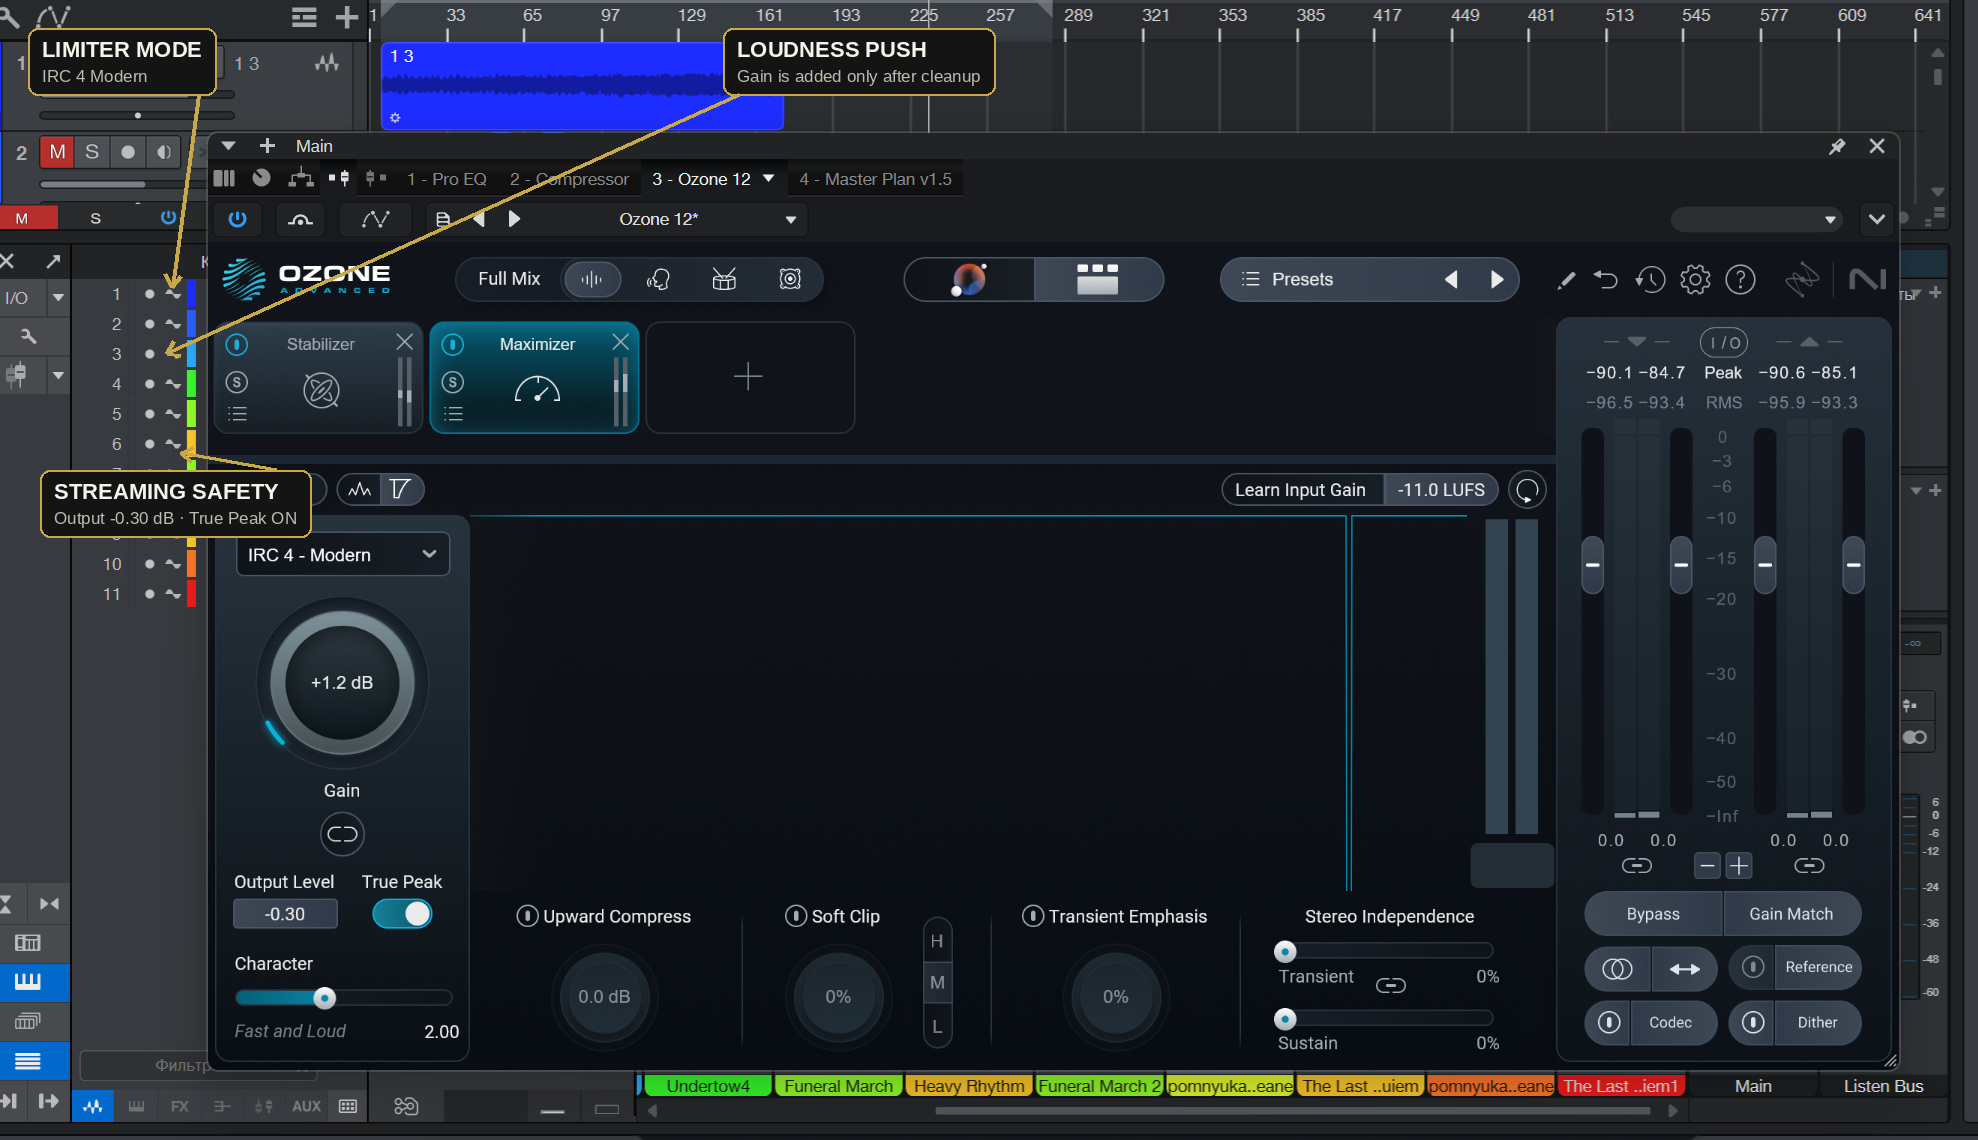
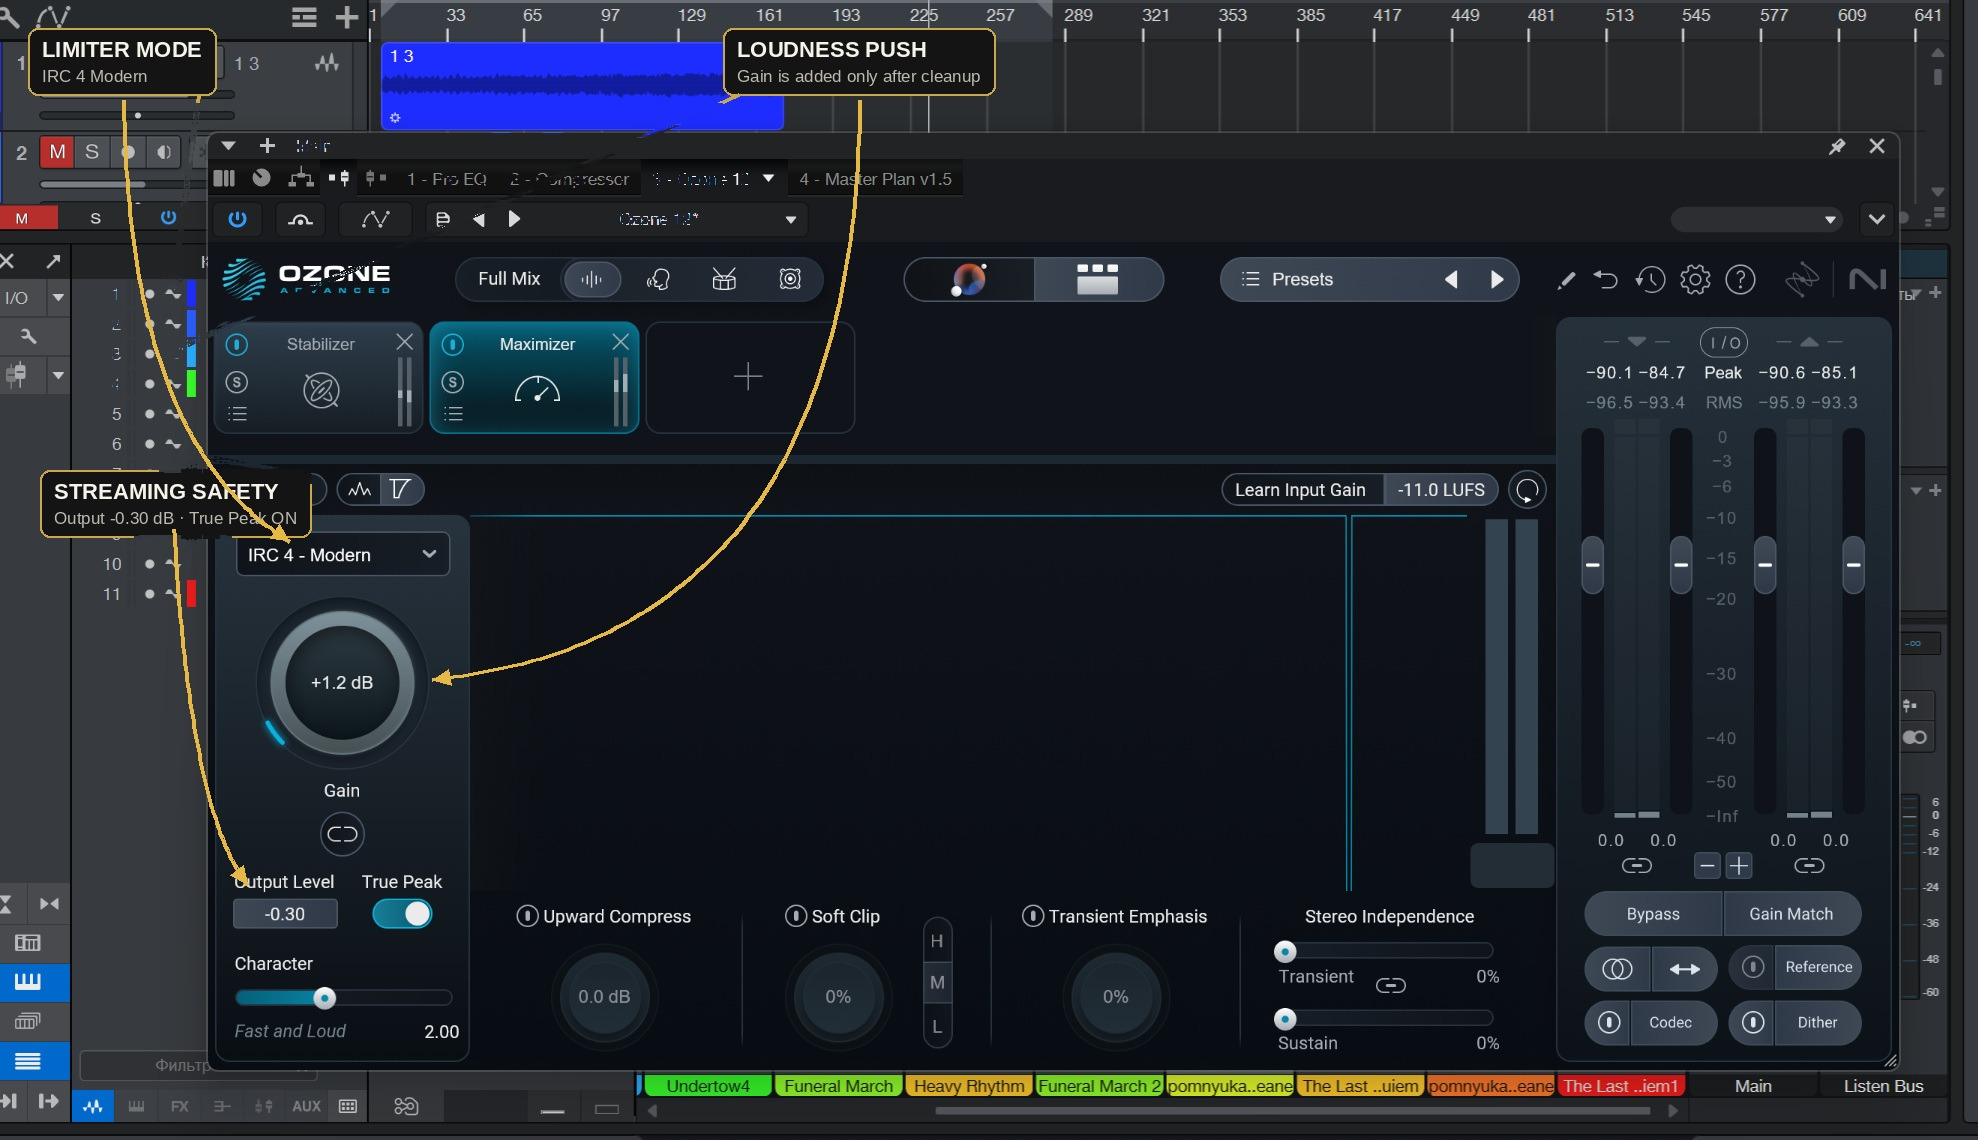
Fix annotation arrows on Suno mastering article screenshots

diff --git a/src/app/pl/suno-track-finishing/page.js b/src/app/pl/suno-track-finishing/page.js
@@ -263,16 +263,6 @@ export default function SunoTrackFinishingPagePL() {
                                         "linear-gradient(to top, rgba(20,20,20,0.55), rgba(20,20,20,0) 40%), linear-gradient(to right, rgba(20,20,20,0.35), rgba(20,20,20,0) 30%)",
                                 }}
                             />
-                            <span
-                                className="absolute bottom-4 left-4 text-[11px] uppercase tracking-widest px-3 py-1.5 rounded-full"
-                                style={{
-                                    color: "#e8c97a",
-                                    background: "rgba(20,20,20,0.65)",
-                                    border: "1px solid rgba(201,168,76,0.4)",
-                                }}
-                            >
-                                Human Performance
-                            </span>
                         </div>
                         <p className="mt-3 text-center text-xs uppercase tracking-widest text-white/35">
                             Utwór z Suno → Prawdziwe gitary → Ludzki miks i master

diff --git a/src/app/suno-track-finishing/page.js b/src/app/suno-track-finishing/page.js
@@ -263,16 +263,6 @@ export default function SunoTrackFinishingPage() {
                                         "linear-gradient(to top, rgba(20,20,20,0.55), rgba(20,20,20,0) 40%), linear-gradient(to right, rgba(20,20,20,0.35), rgba(20,20,20,0) 30%)",
                                 }}
                             />
-                            <span
-                                className="absolute bottom-4 left-4 text-[11px] uppercase tracking-widest px-3 py-1.5 rounded-full"
-                                style={{
-                                    color: "#e8c97a",
-                                    background: "rgba(20,20,20,0.65)",
-                                    border: "1px solid rgba(201,168,76,0.4)",
-                                }}
-                            >
-                                Human Performance
-                            </span>
                         </div>
                         <p className="mt-3 text-center text-xs uppercase tracking-widest text-white/35">
                             Suno track → Live guitars → Human mix & master